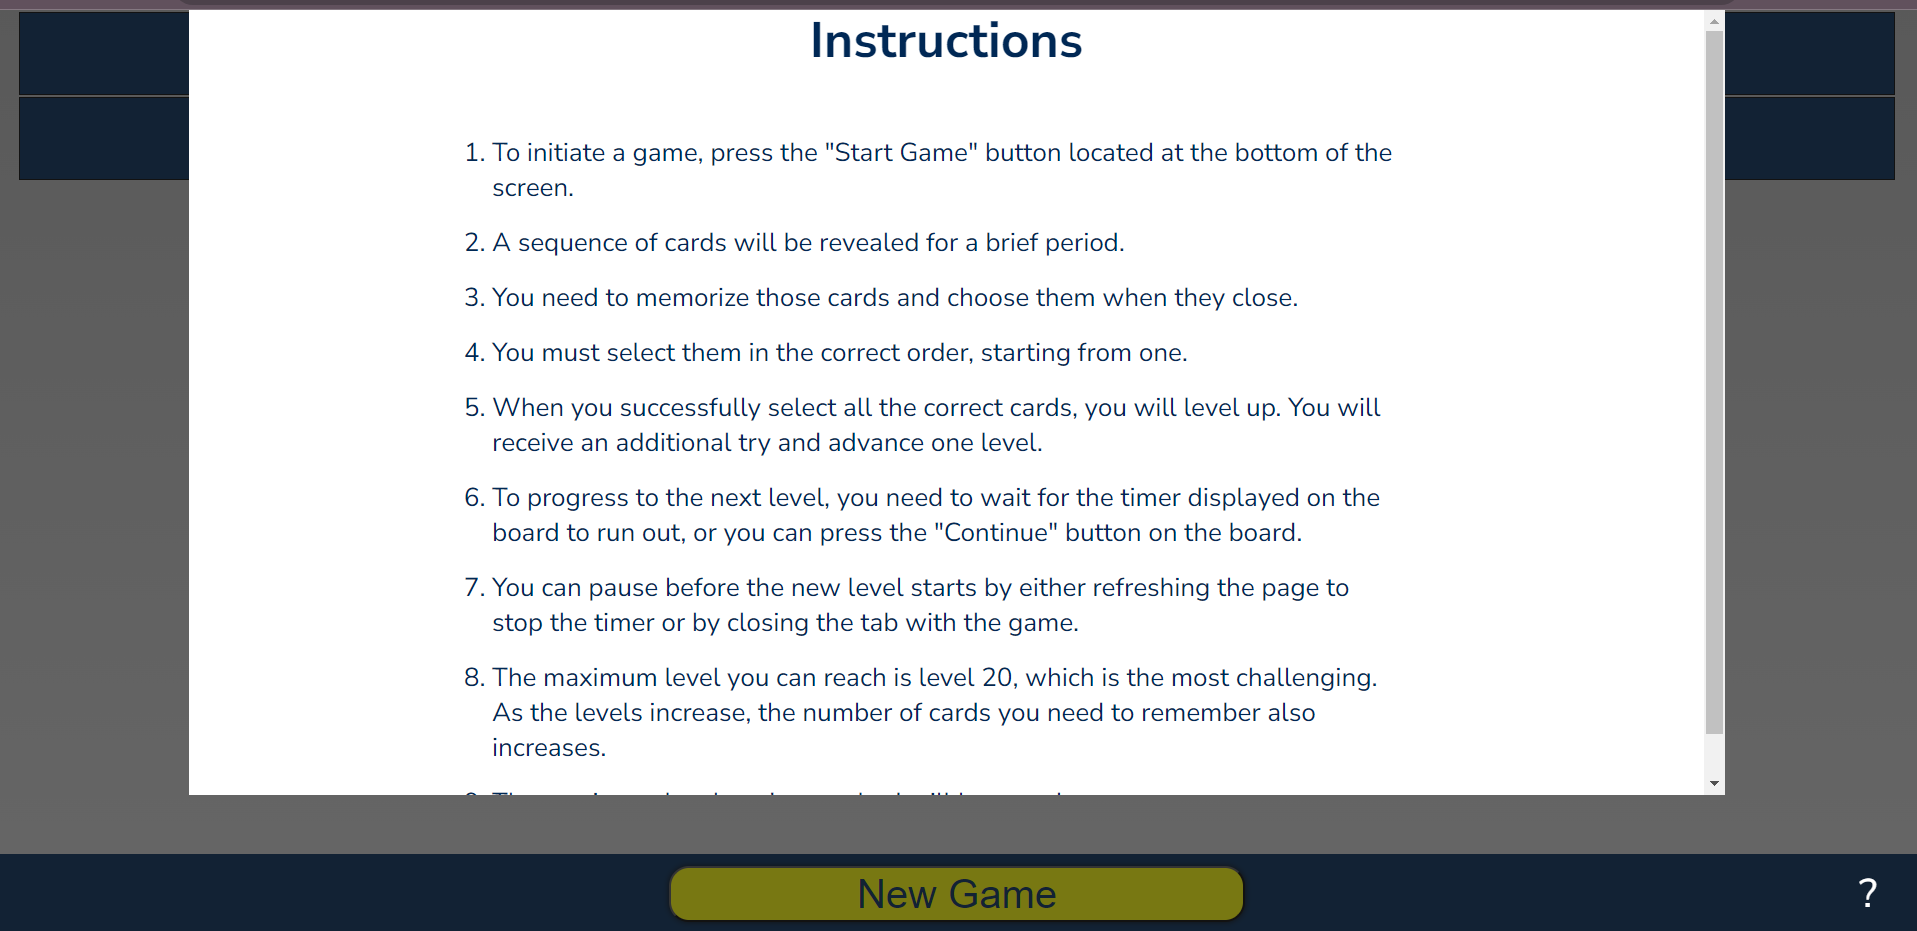
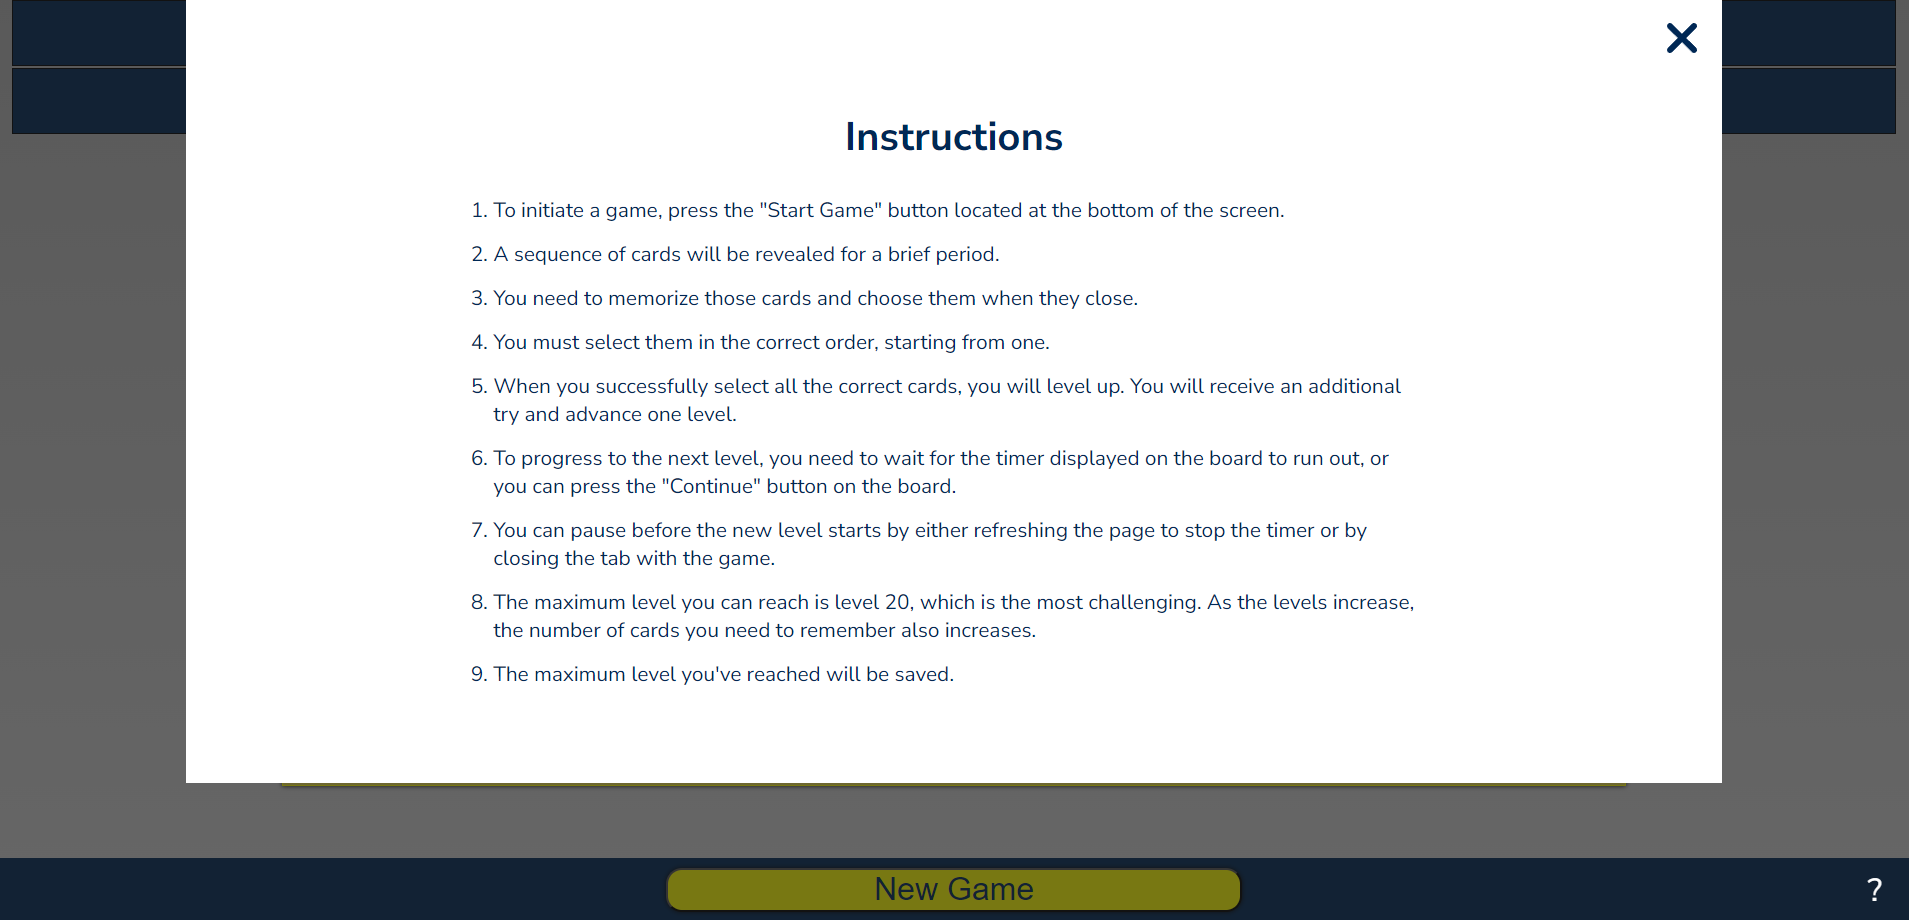
updates instructions (README)

diff --git a/README.md b/README.md
@@ -118,7 +118,7 @@ At the bottom of the screen, you'll notice a control bar.
 
 In its center, there's a "New Game" button that, upon clicking, starts the game from its initial level.
 <br>
-On the right side of this bar, you'll find a question mark icon. Clicking on it will display the game instructions.
+On the right side of this bar, you'll find a question mark icon. Clicking on it will display the game instructions. To close the game instructions, a user can click either on the question mark icon or the cancel icon at the top right corner of the instructions.
 
 ![Instructions](./README/images/instructions.png)
 
